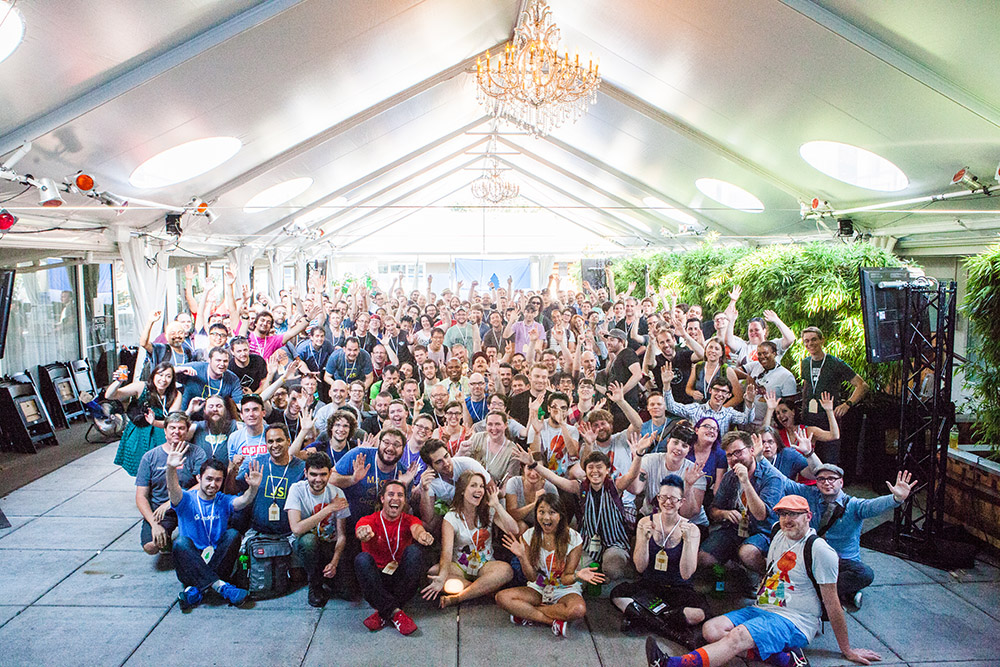
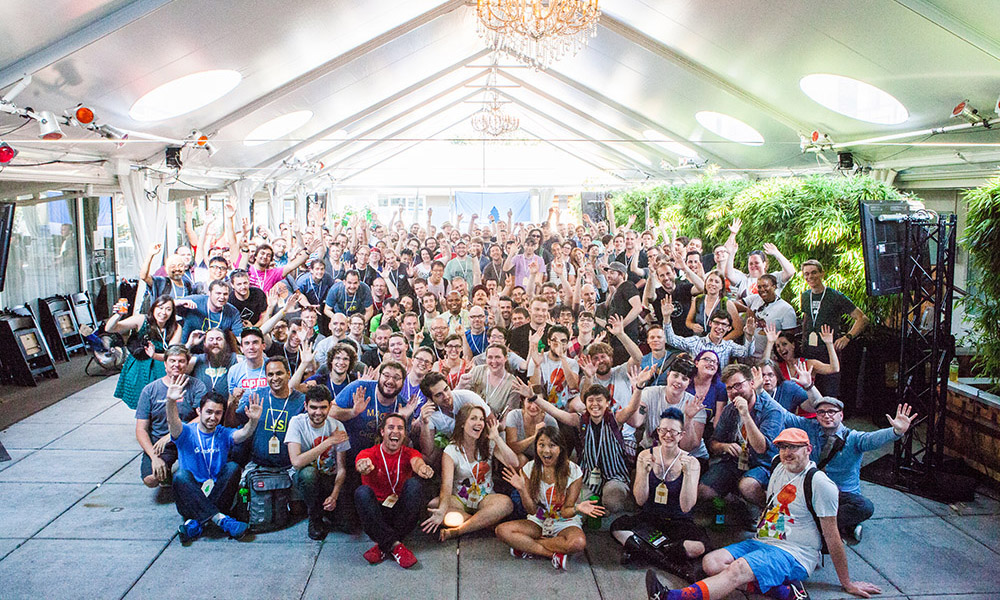
adjust 1000 px image

diff --git a/public/assets/css/style.less b/public/assets/css/style.less
@@ -65,7 +65,7 @@ h1, .h1, h2, .h2, h3, .h3 {
   padding-top: 6px;
 }
 
-@media (min-width: @screen-lg-min) {
+@media (min-width: @screen-md-min) {
   .container-fluid {
     max-width: 60em;
   }
@@ -145,6 +145,10 @@ header {
     font-style: normal;
   }
 
+  span.spacer {
+    padding: 0 .75em;
+  }
+
   img {
     height: 16rem;
   }
@@ -168,7 +172,7 @@ header {
     text-transform: uppercase;
   }
 
-  @media (min-width: @screen-lg-min) {
+  @media (min-width: @screen-md-min) {
     background-position: center -12em;
   }
 }
@@ -177,7 +181,15 @@ header {
   background: url("/assets/img/cjs2015-family-1400.jpg") no-repeat center top;
   background-size: cover;
 
-  padding-bottom: 20em;
+  @media (min-width: @screen-sm-min) {
+    background-image: url("/assets/img/cjs2015-family-1000.jpg");
+  }
+
+  @media (min-width: @screen-xs-min) {
+    background-image: url("/assets/img/cjs2015-family-600.jpg");
+  }
+
+  padding-bottom: 16em;
 
   .well {
     margin: 2em 0;
